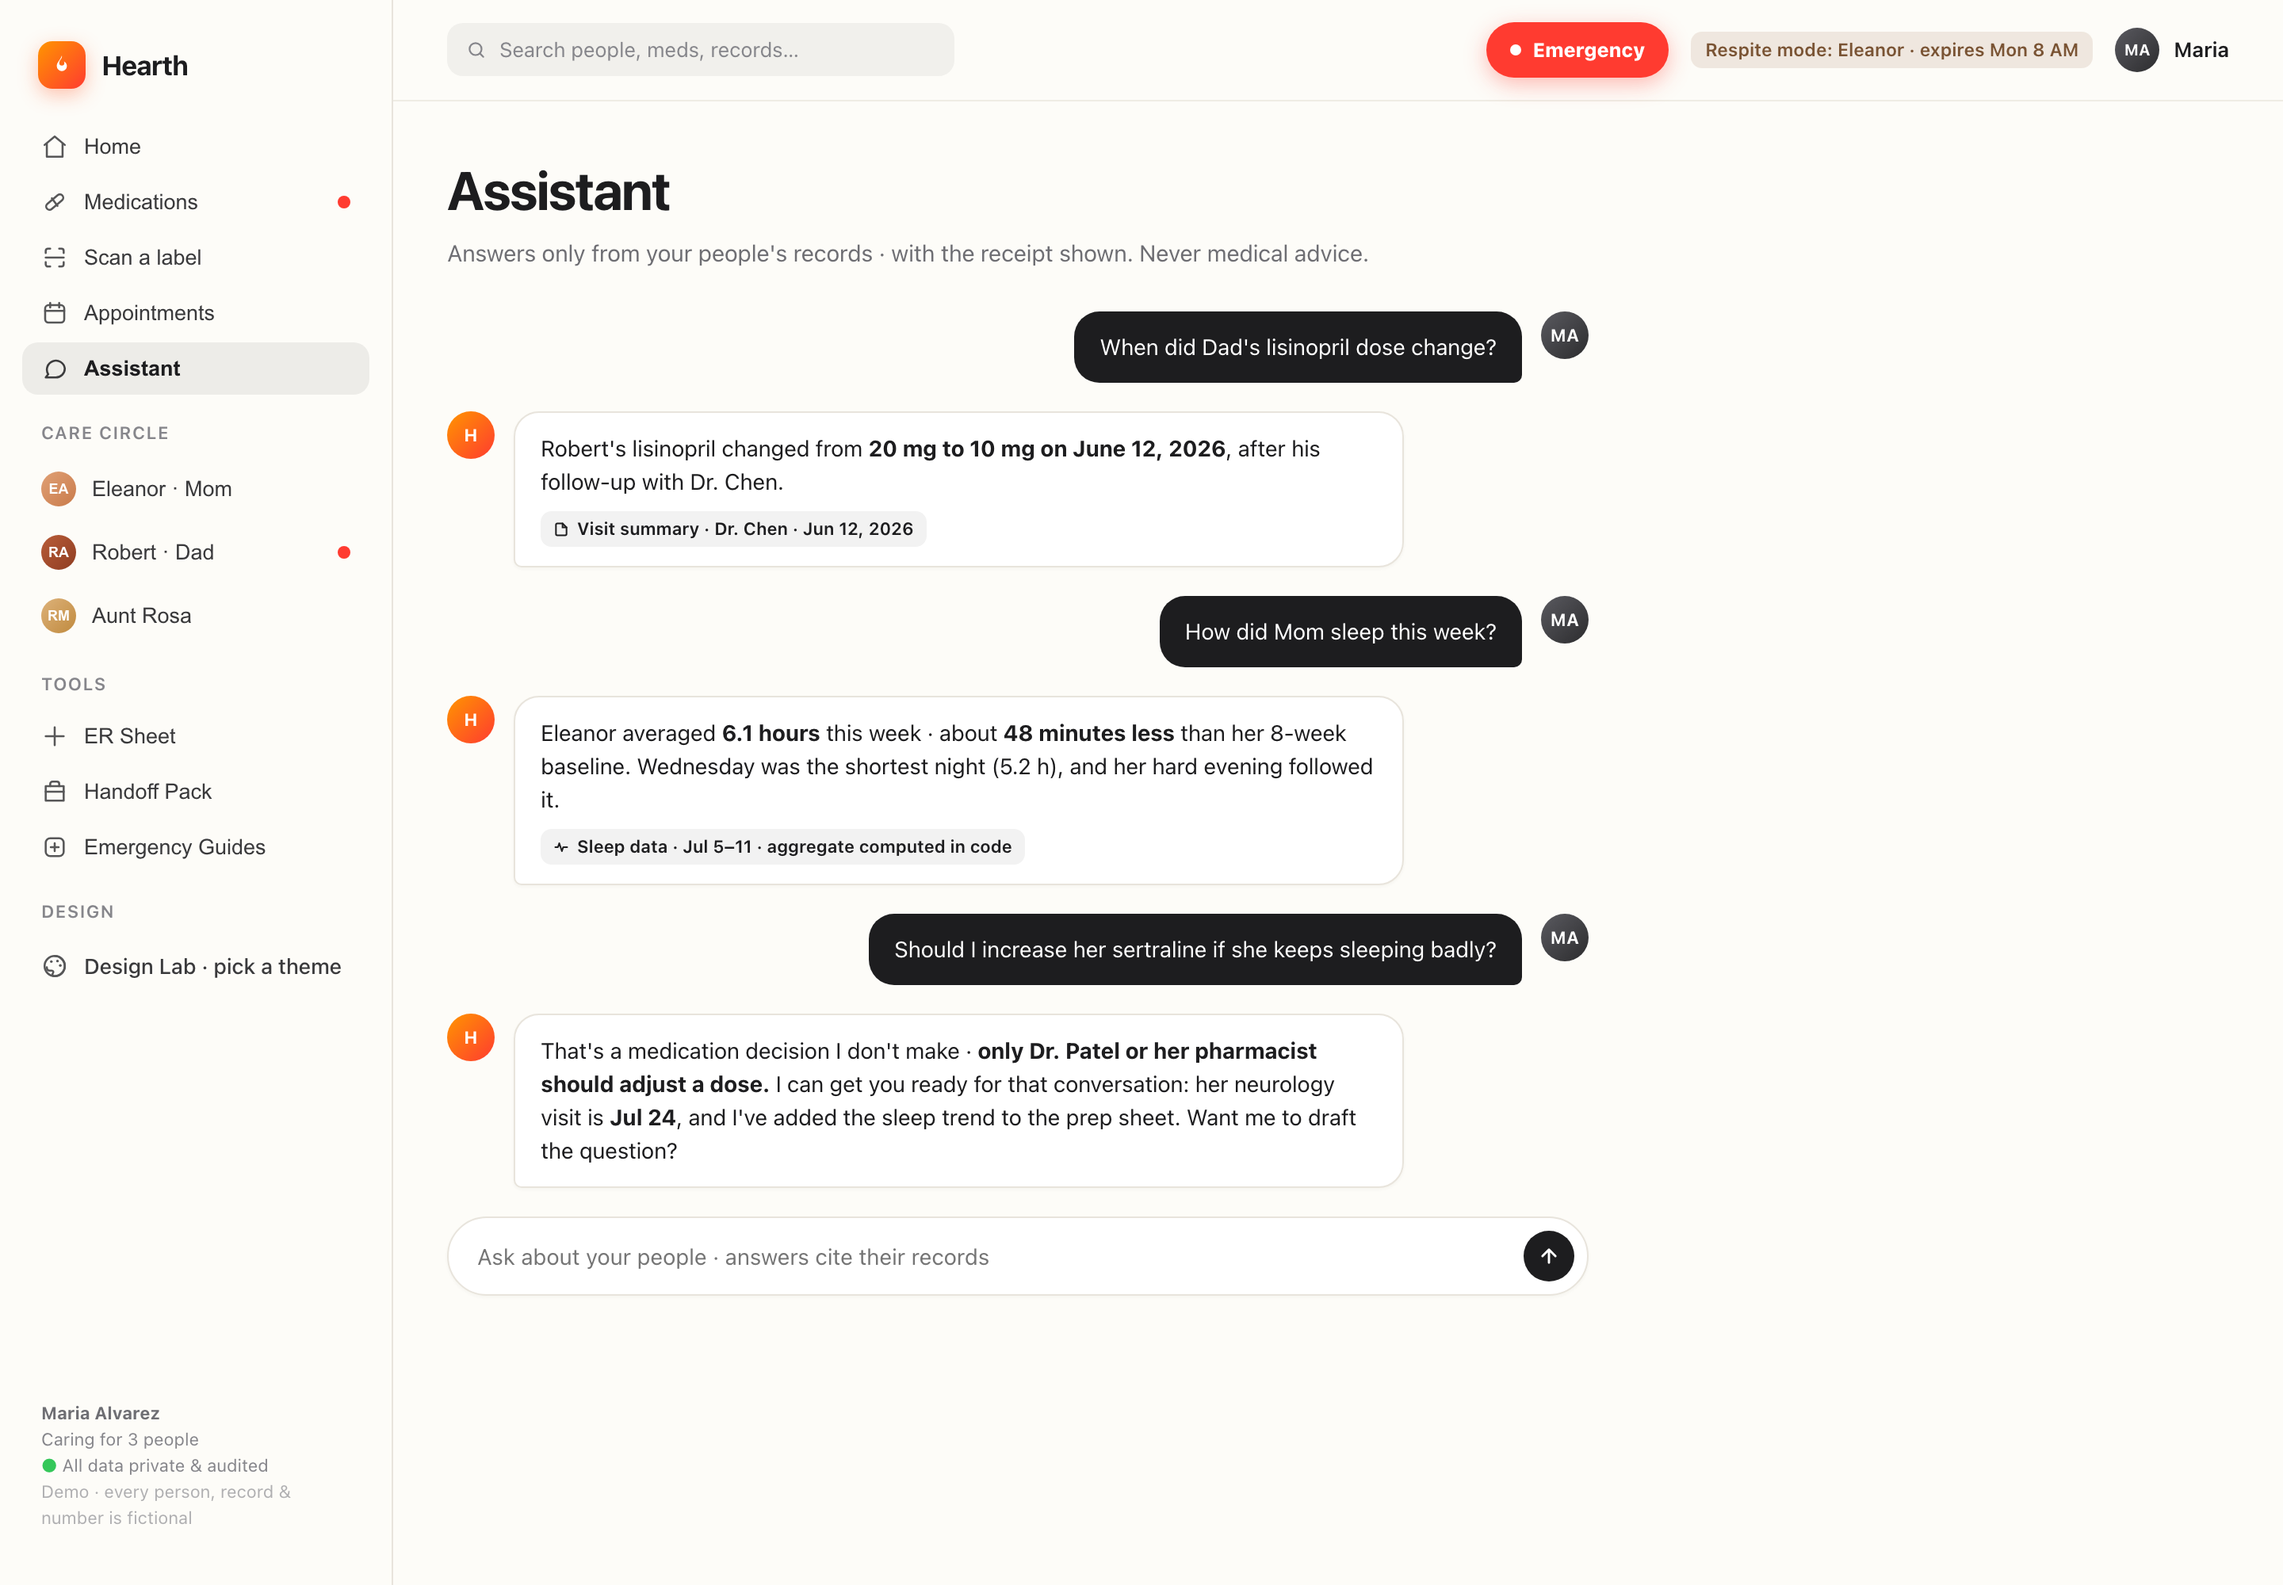
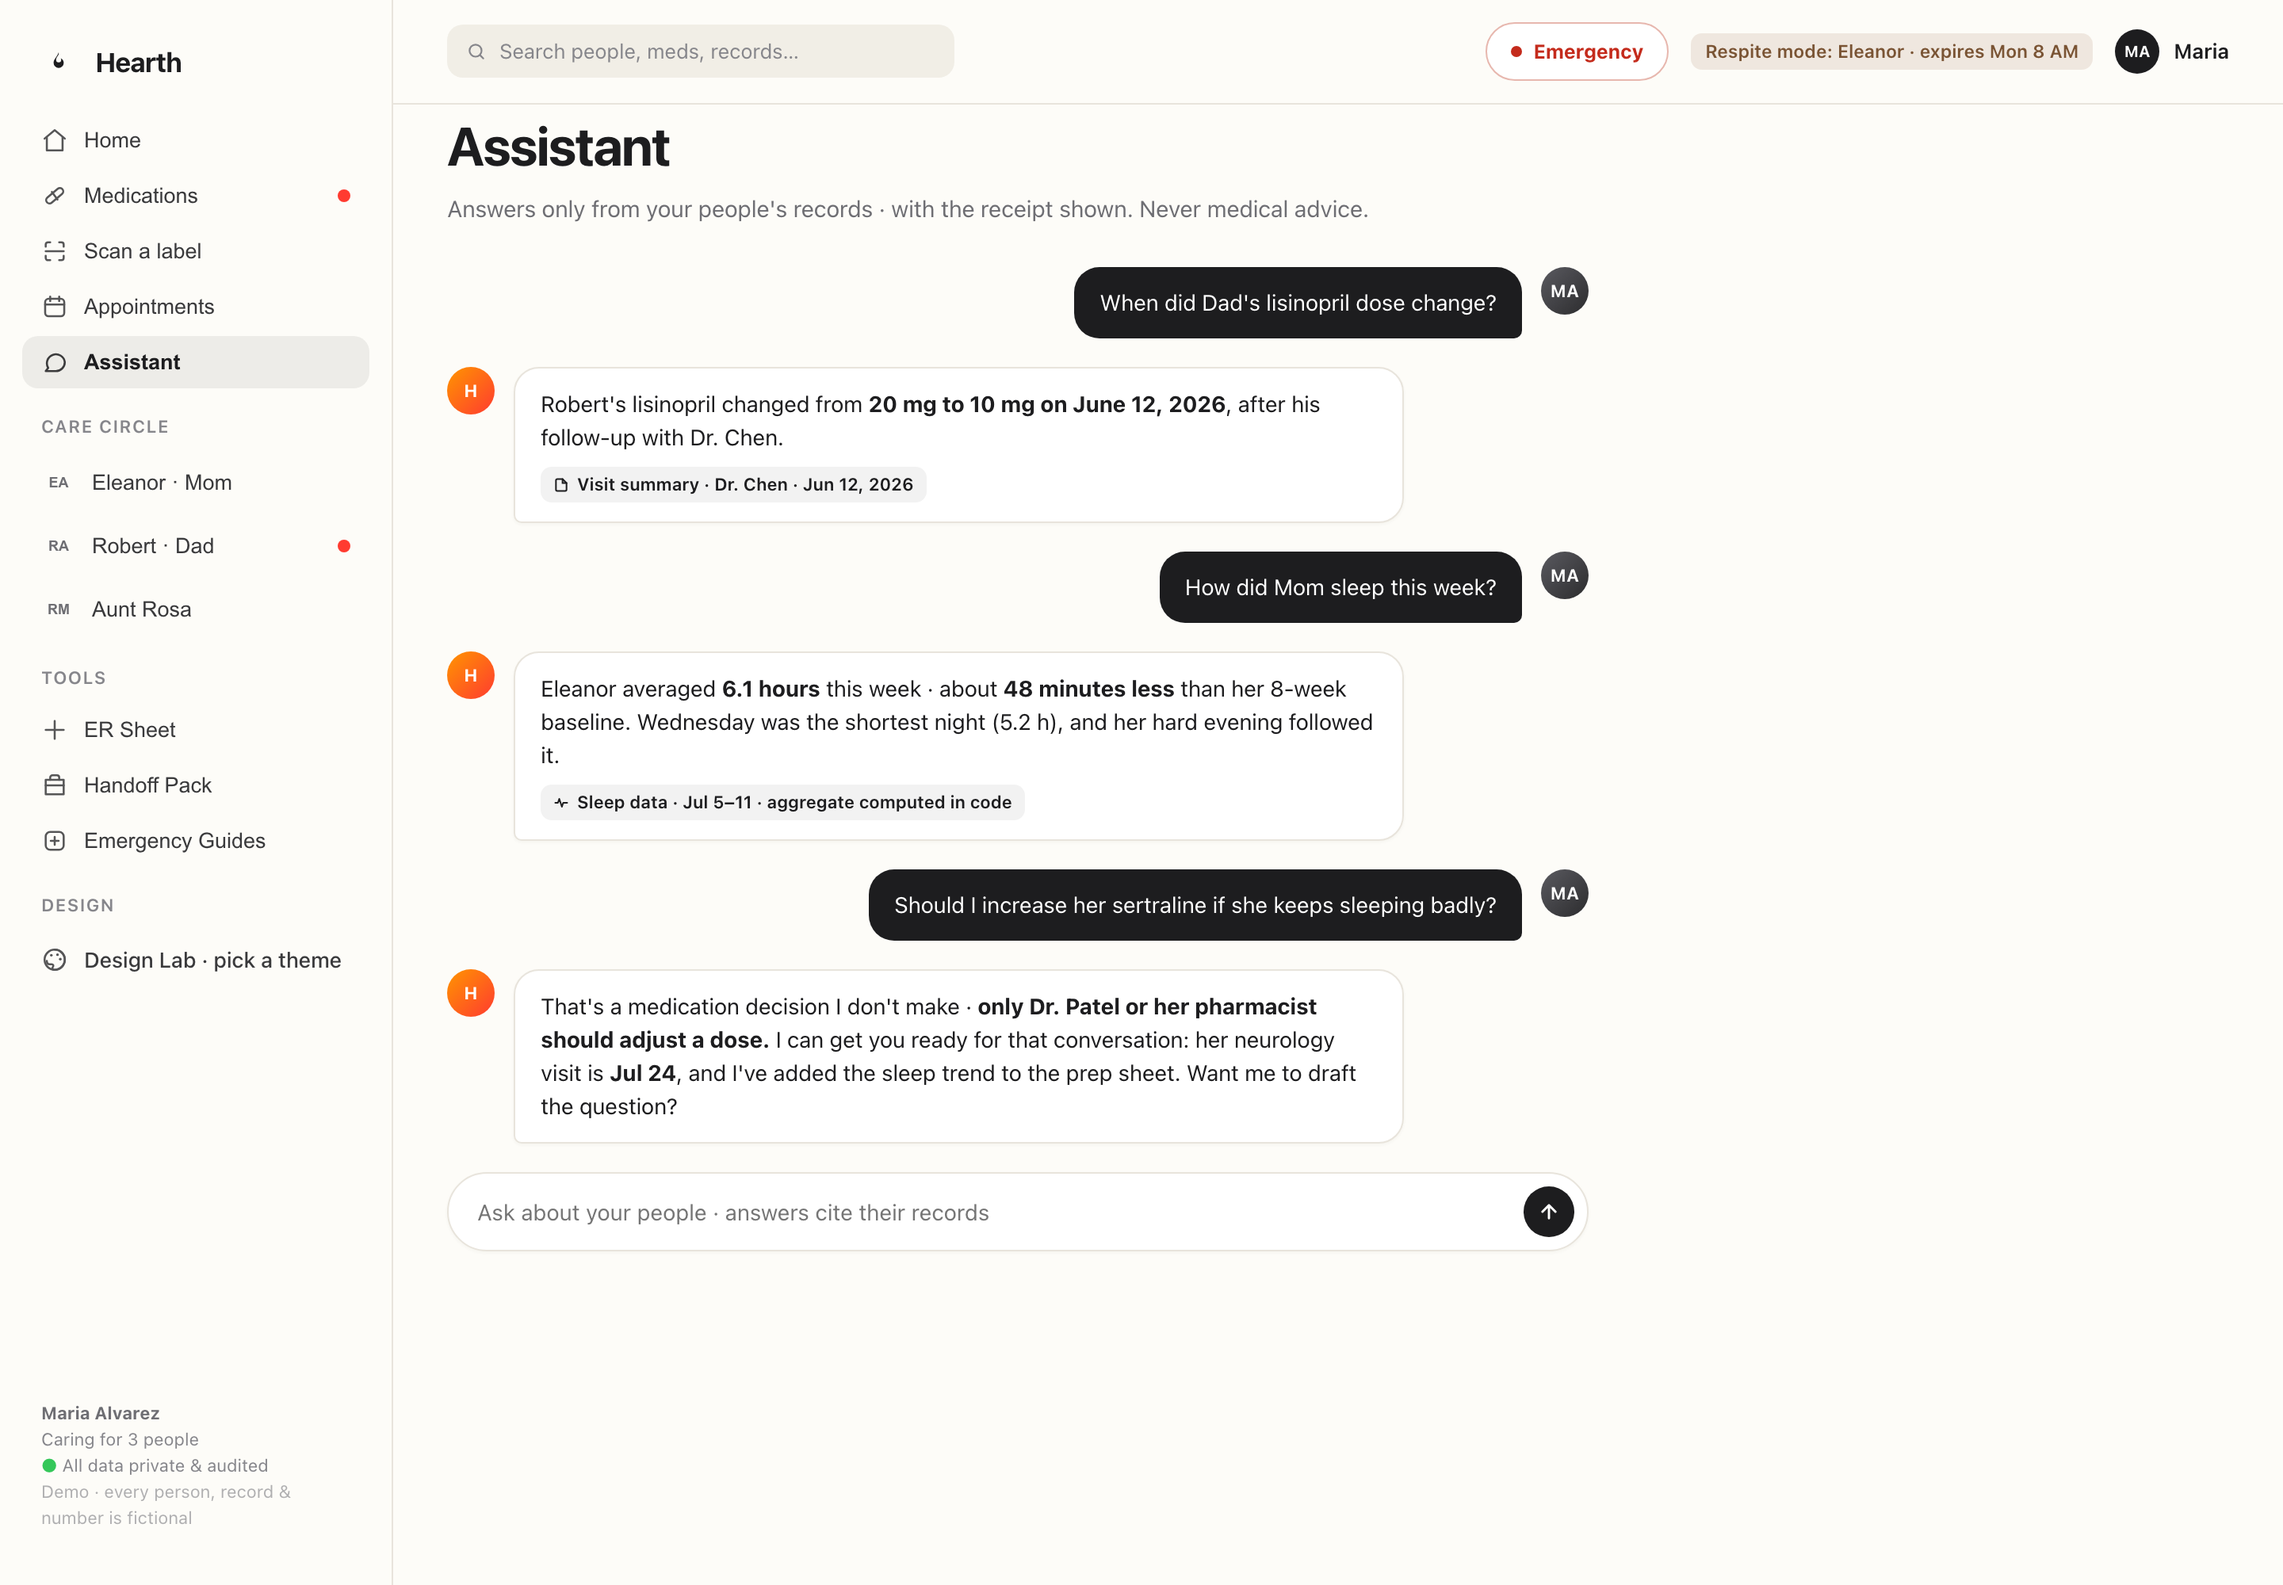
Full 3A Dawn Ridge hero + 3C editorial system across the app; kill old theme; link to ACL brief

diff --git a/index.html b/index.html
@@ -275,6 +275,35 @@ table.meds tr:hover td{background:rgba(0,0,0,.015)}
 .doc{display:flex;align-items:center;gap:12px;padding:11px 4px;border-bottom:1px solid var(--line2);font-size:13.5px}
 .doc:last-child{border:none}
 .doc .ic{width:34px;height:34px;border-radius:9px;background:var(--blue-soft);display:grid;place-items:center;color:var(--blue);font-weight:700;font-size:10px}
+
+/* ===== EDITORIAL SYSTEM · Dawn Ridge + Quiet Meadow ===== */
+body{background:#FDFCF8}
+aside{background:#FDFCF8;border-right:1px solid var(--line)}
+.logo .mark{background:none;box-shadow:none;width:26px;height:26px}
+.logo .mark svg path{fill:#1D1D1F}
+.topbar{background:rgba(253,252,248,.9);border-bottom:1px solid var(--line)}
+.search{background:#F1EEE6}
+.nav .av{background:none!important;border:1.4px solid var(--line-strong);color:var(--ink2);font-weight:600;font-size:9px}
+.chip-user .av{background:#1D1D1F!important}
+.pagewrap{padding-top:0}
+.hero{position:relative;margin:0 -34px 10px;height:238px;overflow:hidden;border-bottom:1px solid var(--line)}
+.hero-art{position:absolute;inset:0;width:100%;height:100%}
+.hero-inner{position:absolute;left:34px;right:34px;bottom:24px}
+.hero-inner h1{font-size:clamp(40px,5vw,58px);font-weight:700;letter-spacing:-.032em;line-height:1;color:#1D1D1F;margin:0}
+.hero-inner p{font-size:16.5px;color:#5A5148;margin-top:12px}
+.digest{background:transparent!important;border:none!important;box-shadow:none!important;padding:0!important}
+.digest .dhead{border-top:1px solid #1D1D1F;padding-top:16px;margin-bottom:2px}
+.digest .dhead .ic{background:none!important;box-shadow:none!important;width:22px;height:22px}
+.digest .dhead .ic svg{stroke:#B8892E;width:20px;height:20px}
+.digest .items{margin-top:6px}
+.ditem{border-bottom:1px solid var(--line);padding:17px 2px;margin:0}
+.ditem:last-child{border-bottom:none}
+.card{box-shadow:none}
+.pcard{box-shadow:none;border:1px solid var(--line)}
+.pcard:hover,.qa:hover{box-shadow:var(--shadow-lg);transform:translateY(-2px)}
+.em-btn{background:#fff!important;color:#C42B1C!important;border:1.4px solid #E7B7AE!important;box-shadow:none!important;font-weight:700!important}
+.em-btn span{background:#C42B1C!important}
+.day.today{outline:1.5px solid rgba(29,29,31,.28)}
 </style>
 </head>
 <body>
@@ -302,6 +331,7 @@ table.meds tr:hover td{background:rgba(0,0,0,.015)}
   <button class="nav" data-v="guides"><svg viewBox="0 0 24 24" fill="none" stroke="currentColor" stroke-width="1.8" stroke-linecap="round" stroke-linejoin="round"><rect x="4" y="4" width="16" height="16" rx="4"/><path d="M12 8.5v7M8.5 12h7"/></svg>Emergency Guides</button>
 
   <div class="navlabel">Design</div>
+  <a class="nav" href="https://acl-caretaker.vercel.app" target="_blank" rel="noopener" style="text-decoration:none"><svg viewBox="0 0 24 24" fill="none" stroke="currentColor" stroke-width="1.8" stroke-linecap="round" stroke-linejoin="round"><path d="M4 5h16v12H4z"/><path d="M9 21h6M12 17v4"/></svg>ACL challenge brief</a>
   <a class="nav" href="variants.html" style="text-decoration:none"><svg viewBox="0 0 24 24" fill="none" stroke="currentColor" stroke-width="1.8" stroke-linecap="round" stroke-linejoin="round"><circle cx="12" cy="12" r="9"/><path d="M12 3a9 9 0 0 1 0 18c-2 0-2.5-1.4-1.6-2.6.8-1.1.3-2.4-1.1-2.4H7.5C5.6 16 5 14.6 5 13"/><circle cx="9" cy="8" r="1.2" fill="currentColor" stroke="none"/><circle cx="14.5" cy="7.5" r="1.2" fill="currentColor" stroke="none"/><circle cx="17" cy="11.5" r="1.2" fill="currentColor" stroke="none"/></svg>Design Lab · pick a theme</a>
 
   <div class="side-foot"><b>Maria Alvarez</b><br>Caring for 3 people<br><span style="color:#34C759">●</span> All data private &amp; audited<br><span style="opacity:.65">Demo · every person, record &amp; number is fictional</span></div>
@@ -312,7 +342,7 @@ table.meds tr:hover td{background:rgba(0,0,0,.015)}
   <div class="topbar">
     <div class="search"><svg viewBox="0 0 24 24" fill="none" stroke="currentColor" stroke-width="2" stroke-linecap="round"><circle cx="11" cy="11" r="7"/><path d="m20 20-3.5-3.5"/></svg>Search people, meds, records…</div>
     <div class="spacer"></div>
-    <a href="guides.html" style="text-decoration:none;display:inline-flex;align-items:center;gap:7px;background:var(--red);color:#fff;font-weight:800;font-size:12.5px;border-radius:99px;padding:8px 15px;box-shadow:0 4px 14px rgba(255,59,48,.35)"><span style="width:7px;height:7px;border-radius:50%;background:#fff"></span>Emergency</a>
+    <a class="em-btn" href="guides.html" style="text-decoration:none;display:inline-flex;align-items:center;gap:7px;font-size:12.5px;border-radius:99px;padding:8px 15px"><span style="width:7px;height:7px;border-radius:50%"></span>Emergency</a>
     <span class="tag purple">Respite mode: Eleanor · expires Mon 8 AM</span>
     <div class="chip-user"><span class="av g4" style="width:28px;height:28px;font-size:10px">MA</span>Maria</div>
   </div>
@@ -321,8 +351,42 @@ table.meds tr:hover td{background:rgba(0,0,0,.015)}
 
   <!-- ========== DASHBOARD ========== -->
   <section class="view on" id="v-dashboard">
-    <h1 class="page">Good afternoon, Maria</h1>
-    <p class="sub">Saturday, July 11 · Here's the one thing that needs you, and the calm around it.</p>
+    <header class="hero">
+      <svg class="hero-art" viewBox="0 0 1212 250" preserveAspectRatio="none" aria-hidden="true">
+        <defs>
+          <linearGradient id="dr-sky" x1="0" y1="0" x2="0" y2="1"><stop offset="0" stop-color="#FCFBF9"/><stop offset="0.38" stop-color="#F9F1EA"/><stop offset="0.70" stop-color="#F5E8E1"/><stop offset="1" stop-color="#EFDFDC"/></linearGradient>
+          <linearGradient id="dr-lav" x1="0" y1="0" x2="0" y2="1"><stop offset="0.50" stop-color="#E3DBE4" stop-opacity="0"/><stop offset="1" stop-color="#E3DBE4" stop-opacity="0.38"/></linearGradient>
+          <radialGradient id="dr-halo" cx="0.5" cy="0.5" r="0.5"><stop offset="0" stop-color="#F3D3A8" stop-opacity="0.55"/><stop offset="0.35" stop-color="#F5DCBC" stop-opacity="0.30"/><stop offset="0.70" stop-color="#F7E5D2" stop-opacity="0.13"/><stop offset="1" stop-color="#F7E5D2" stop-opacity="0"/></radialGradient>
+          <radialGradient id="dr-sun" cx="0.5" cy="0.5" r="0.5"><stop offset="0" stop-color="#F8E3BF" stop-opacity="1"/><stop offset="0.55" stop-color="#F5DBB4" stop-opacity="0.9"/><stop offset="0.85" stop-color="#F4D9B6" stop-opacity="0.35"/><stop offset="1" stop-color="#F4D9B6" stop-opacity="0"/></radialGradient>
+          <filter id="dr-mist" x="-20%" y="-300%" width="140%" height="700%"><feGaussianBlur stdDeviation="5"/></filter>
+          <filter id="dr-spill" x="-60%" y="-120%" width="220%" height="340%"><feGaussianBlur stdDeviation="14"/></filter>
+        </defs>
+        <rect x="0" y="0" width="1212" height="250" fill="url(#dr-sky)"/>
+        <rect x="0" y="0" width="1212" height="250" fill="url(#dr-lav)"/>
+        <circle cx="955" cy="146" r="175" fill="url(#dr-halo)"/>
+        <circle cx="955" cy="146" r="40" fill="url(#dr-sun)"/>
+        <g fill="none" stroke="#4A5361" stroke-linecap="round">
+          <path d="M770 52 q3.4 -3 6.6 -0.3 q3.2 -2.7 6.6 0.3" stroke-width="1" stroke-opacity="0.55" vector-effect="non-scaling-stroke"/>
+          <path d="M818 39 q2.9 -2.5 5.6 -0.2 q2.7 -2.3 5.6 0.2" stroke-width="0.9" stroke-opacity="0.46" vector-effect="non-scaling-stroke"/>
+          <path d="M856 63 q2.4 -2.1 4.7 -0.2 q2.3 -1.9 4.7 0.2" stroke-width="0.85" stroke-opacity="0.4" vector-effect="non-scaling-stroke"/>
+          <path d="M1078 46 q2.6 -2.2 5 -0.2 q2.4 -2 5 0.2" stroke-width="0.85" stroke-opacity="0.36" vector-effect="non-scaling-stroke"/>
+        </g>
+        <path fill="#EBE2E6" d="M0 150 C60 146 120 144 190 146 C260 148 330 150 420 149 C500 148 560 146 640 143 C690 141 715 128 745 121 C770 115 795 118 820 127 C850 138 875 146 905 149 C930 151 945 152 965 152 C1000 152 1030 146 1060 139 C1085 133 1108 131 1132 137 C1160 144 1190 149 1212 150 L1212 250 L0 250 Z"/>
+        <path fill="#D9D4DE" d="M0 164 C70 160 130 157 200 159 C270 161 330 163 400 161 C460 159 505 150 555 145 C585 142 610 143 640 149 C685 158 720 163 770 164 C830 165 880 162 930 161 C980 160 1020 156 1060 152 C1095 149 1130 152 1165 158 C1190 162 1205 163 1212 164 L1212 250 L0 250 Z"/>
+        <ellipse cx="955" cy="168" rx="190" ry="26" fill="#F3D9BE" opacity="0.22" filter="url(#dr-spill)"/>
+        <path fill="#C2C1D0" d="M0 175 C60 178 110 170 170 166 C230 162 290 170 350 174 C410 178 460 172 510 168 C560 164 600 166 650 172 C700 178 750 181 810 180 C860 179 905 172 950 168 C990 164 1030 166 1075 172 C1120 178 1170 180 1212 178 L1212 250 L0 250 Z"/>
+        <rect x="-40" y="170" width="1300" height="7" fill="#FFFFFF" opacity="0.5" filter="url(#dr-mist)"/>
+        <path fill="#A8ACBD" d="M0 200 C70 192 120 184 190 182 C250 180 300 188 360 192 C420 196 480 192 540 186 C590 181 630 182 680 188 C740 195 790 200 850 199 C910 198 960 190 1010 186 C1055 182 1100 186 1150 192 C1185 196 1205 197 1212 197 L1212 250 L0 250 Z"/>
+        <rect x="140" y="202" width="1120" height="9" fill="#FFFFFF" opacity="0.4" filter="url(#dr-mist)"/>
+        <path fill="#8B93A3" d="M0 214 C80 218 140 208 210 205 C280 202 340 210 410 214 C470 217 530 212 590 208 C650 204 710 208 770 213 C830 218 890 219 950 216 C1010 213 1060 207 1110 209 C1160 211 1195 214 1212 214 L1212 250 L0 250 Z"/>
+        <rect x="-40" y="224" width="1292" height="8" fill="#FFFFFF" opacity="0.32" filter="url(#dr-mist)"/>
+        <path fill="#6E7B8A" d="M0 236 C90 230 160 224 250 226 C330 228 400 234 480 234 C560 234 630 227 710 228 C790 229 860 236 940 237 C1010 238 1080 232 1140 232 C1180 232 1200 234 1212 235 L1212 250 L0 250 Z"/>
+      </svg>
+      <div class="hero-inner">
+        <h1>Good afternoon, Maria</h1>
+        <p>Saturday, July 11 · Here's the one thing that needs you, and the calm around it.</p>
+      </div>
+    </header>
 
     <div class="card digest pad" style="margin-bottom:16px">
       <div class="dhead">
